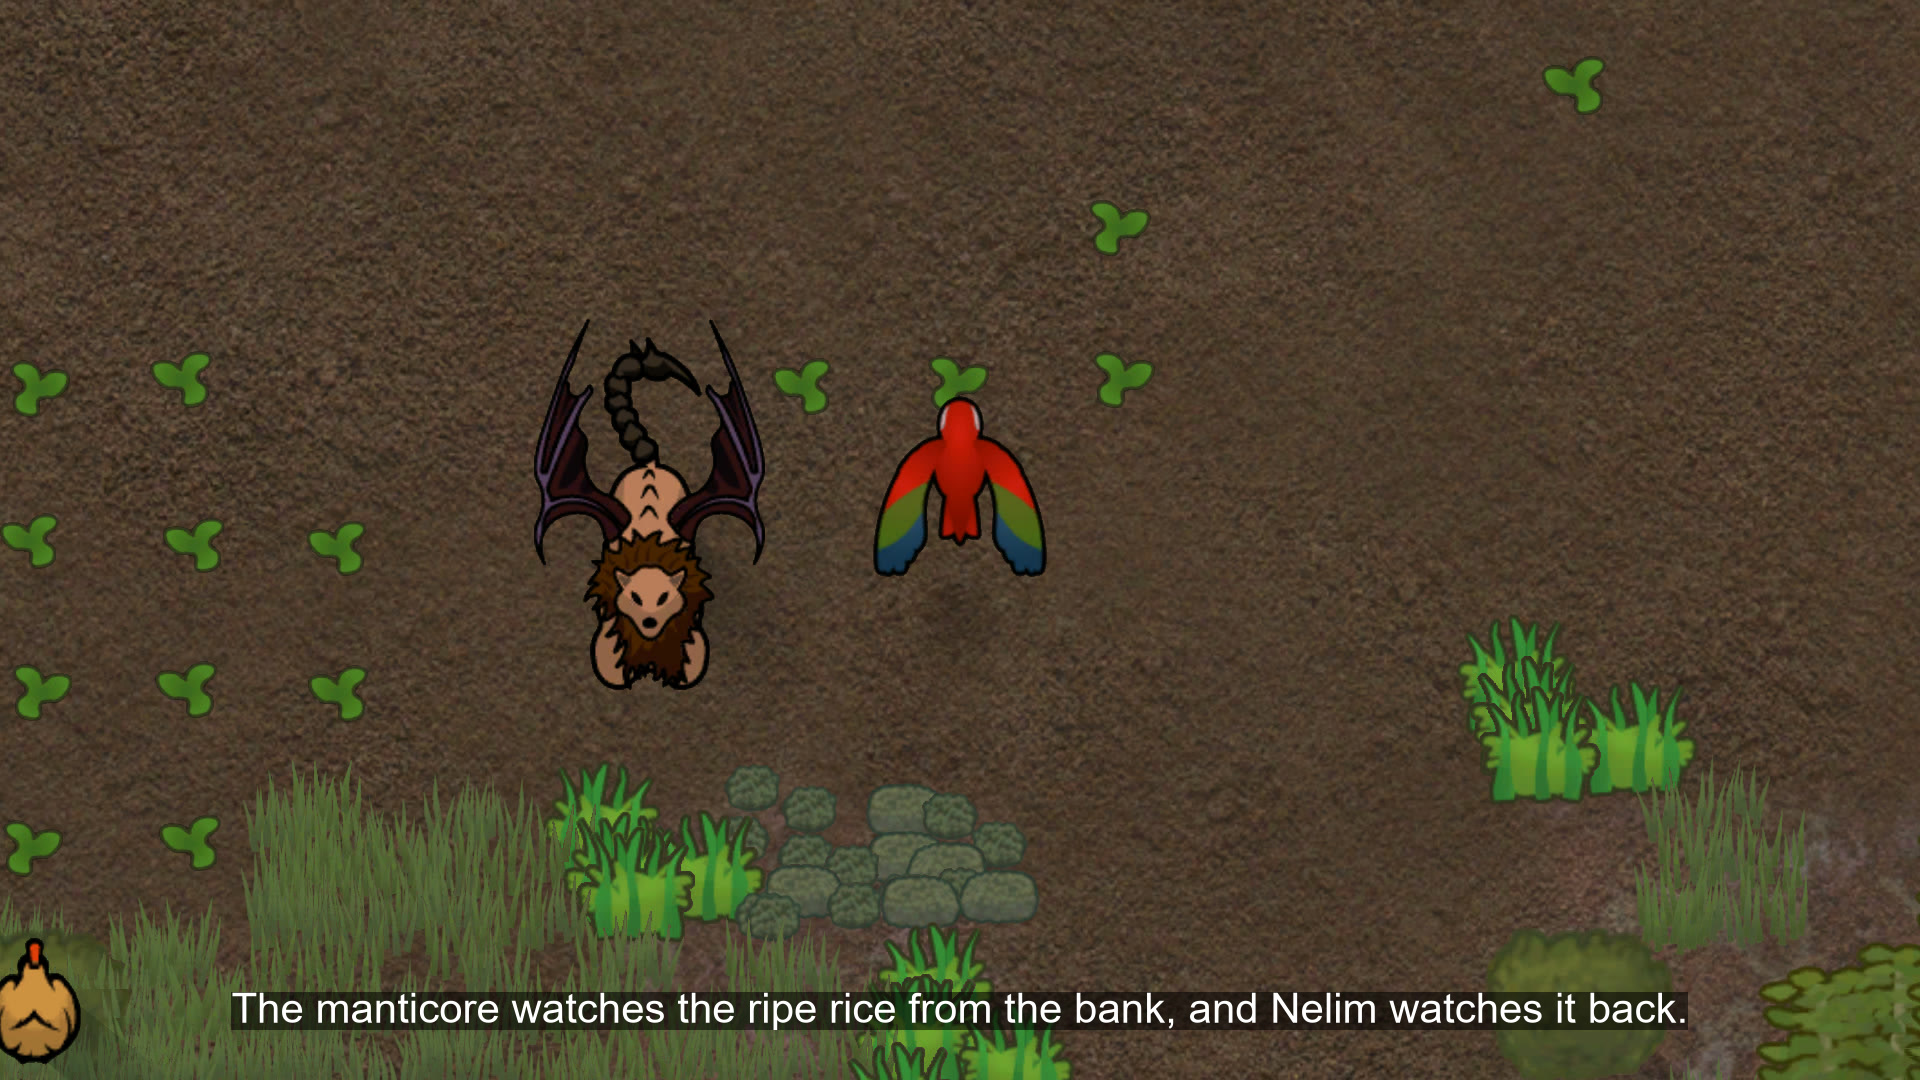
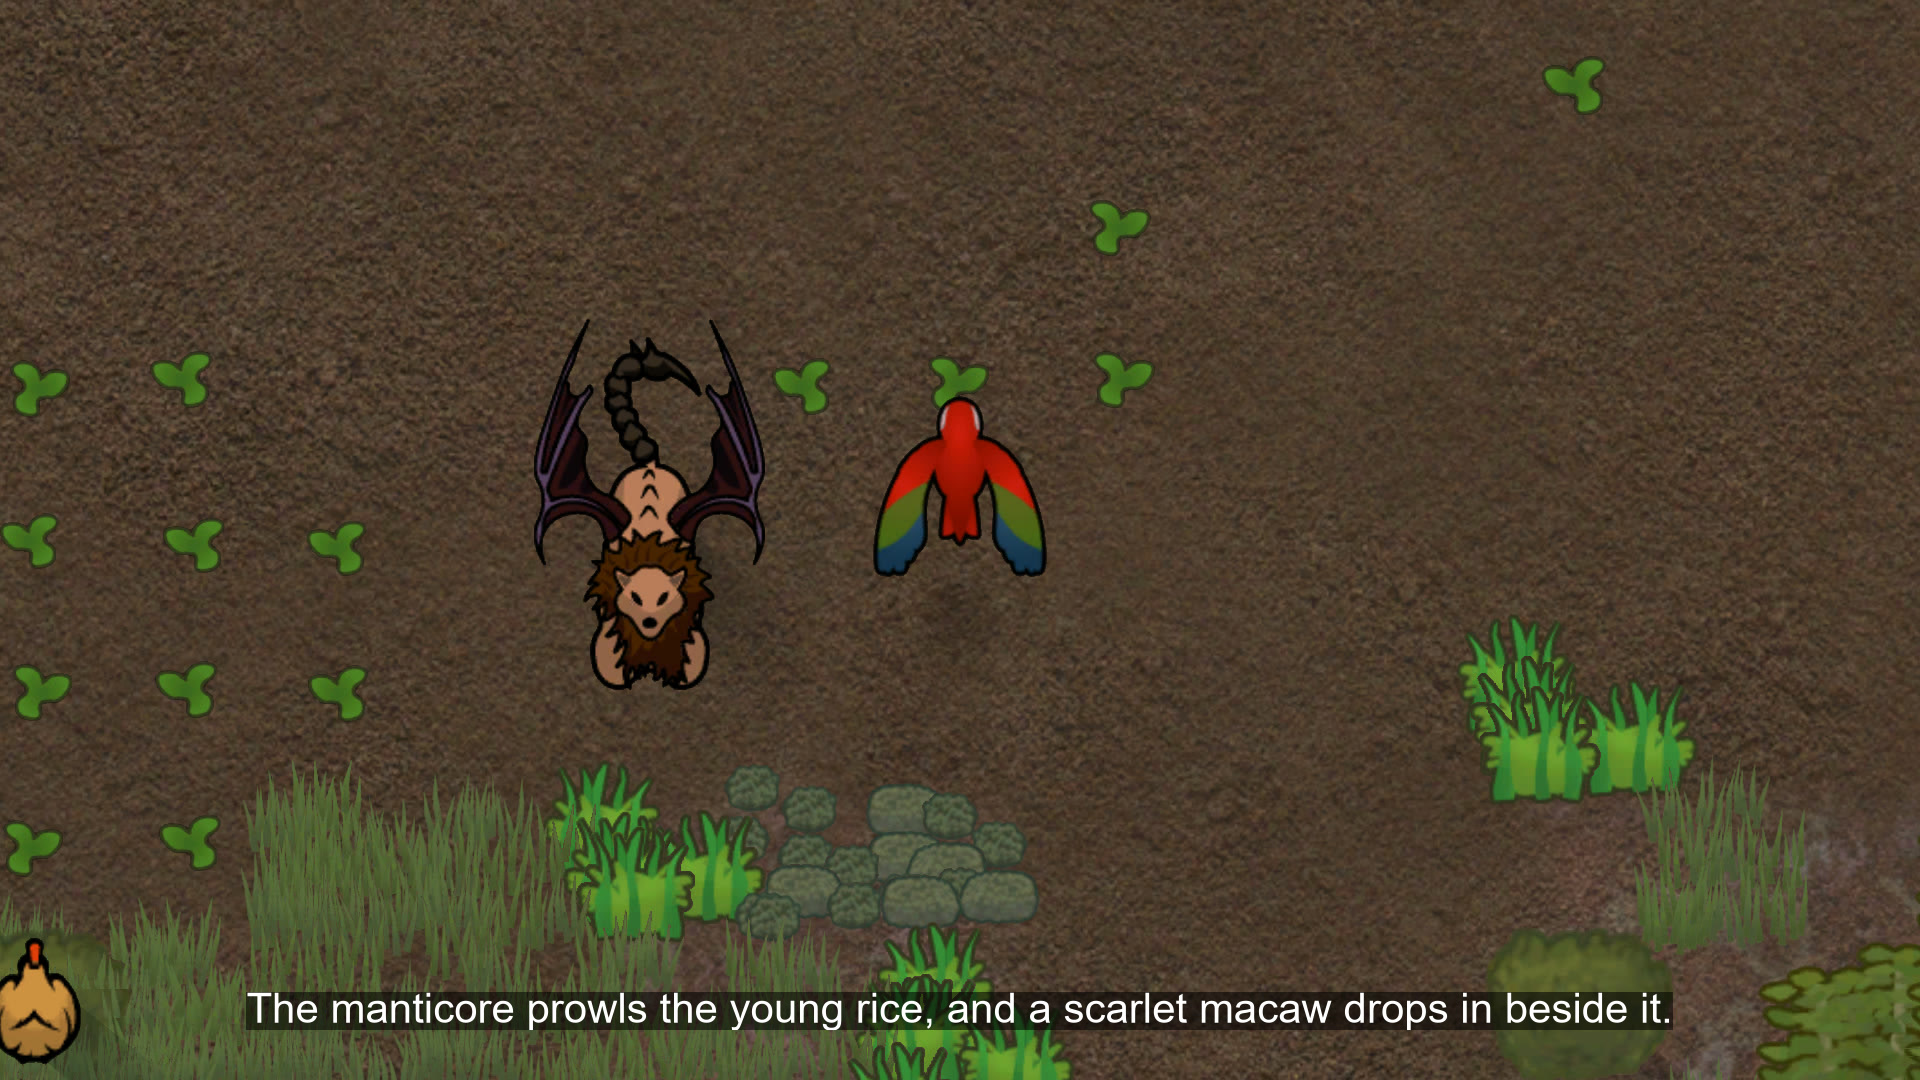
Gallery: subtitle of 3 matches the picture (no Nelim in frame, young rice, macaw)

Changed region(s): [[0.0938, 0.9167, 0.9062, 0.9472]]

diff --git a/PUBLICATION.md b/PUBLICATION.md
@@ -71,7 +71,7 @@ One English line at the bottom of each scene without an interface window (`GALLE
 |---|---|
 | 1 kitsune at the tea room (`1-kitsune.jpg`) | The fox spirit has made itself at home in the tea room, and Nelim joins it. |
 | 2 phoenix in the hearth hall (`2-phoenix.jpg`) | The phoenix settles in the hearth hall and lights it like a second fire. |
-| 3 manticore by the paddies (`3-manticore.jpg`) | The manticore watches the ripe rice from the bank, and Nelim watches it back. |
+| 3 manticore by the paddies (`3-manticore.jpg`) | The manticore prowls the young rice, and a scarlet macaw drops in beside it. |
 | 4 kappa by the pond (`4-kappa.jpg`) | A water spirit rests on the bank of the round pond, and Nelim has come to see it. |
 | 5 pegasus at the water garden (`5-pegasus.jpg`) | The winged horse drinks among the lilies, and Nelim stops to watch. |
 | 6 unicorn in the plant garden (`6-unicorn.jpg`) | The unicorn walks the fenced plant garden, and Nelim follows at a distance. |
